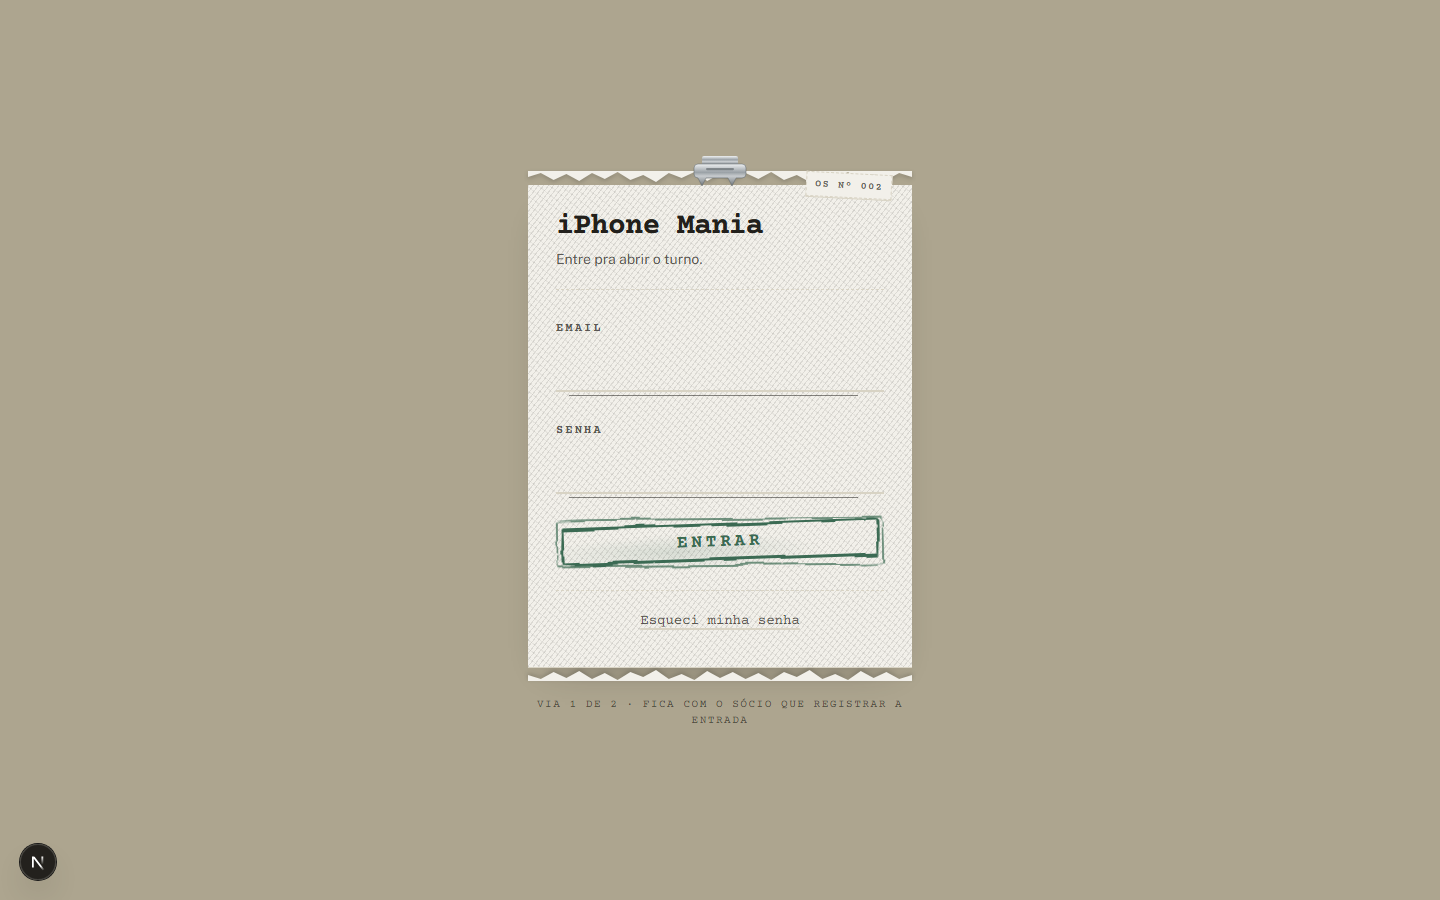
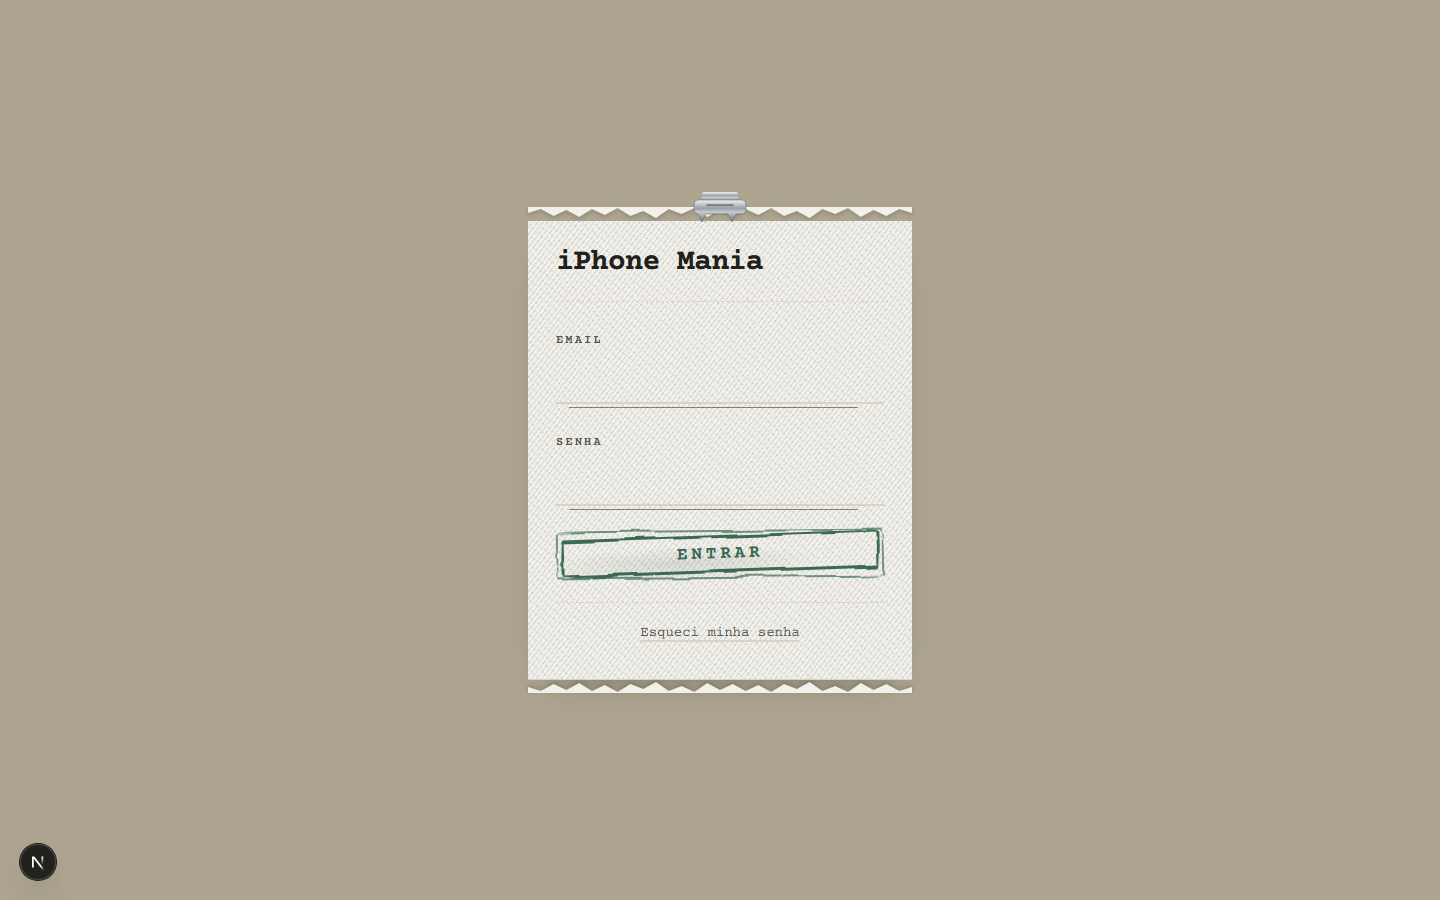
style: remove etiqueta de canto, subtítulo e rodapé da tela de login
Pedido do usuário: tirar "OS Nº 002", "Entre pra abrir o turno." e o
rodapé "via 1 de 2..." da tela de login, deixando só título, campos e
botão.

diff --git a/src/app/login/page.tsx b/src/app/login/page.tsx
@@ -1,5 +1,4 @@
 import { TornEdge } from "@/components/torn-edge";
-import { CornerTag } from "@/components/corner-tag";
 import { MetalClip } from "@/components/metal-clip";
 import { LoginForm } from "./login-form";
 
@@ -11,22 +10,16 @@ export default function LoginPage() {
         <TornEdge className="h-3.5 w-full text-paper" />
 
         <div className="carbon-texture relative bg-paper px-7 pb-9 pt-6 shadow-[0_1px_0_var(--paper-line),0_18px_36px_-24px_rgb(34_32_28_/_45%)]">
-          <CornerTag>OS Nº 002</CornerTag>
           <header className="mb-6 border-b border-dashed border-paper-line pb-5">
             <h1 className="ink-title font-ticket text-3xl font-bold tracking-tight text-ink">
               iPhone Mania
             </h1>
-            <p className="mt-1 text-sm text-ink-soft">Entre pra abrir o turno.</p>
           </header>
 
           <LoginForm />
         </div>
 
         <TornEdge flip className="h-3.5 w-full text-paper" />
-
-        <p className="mt-4 text-center font-ticket text-[11px] uppercase tracking-[0.14em] text-ink-faint">
-          via 1 de 2 · fica com o sócio que registrar a entrada
-        </p>
       </div>
     </main>
   );
